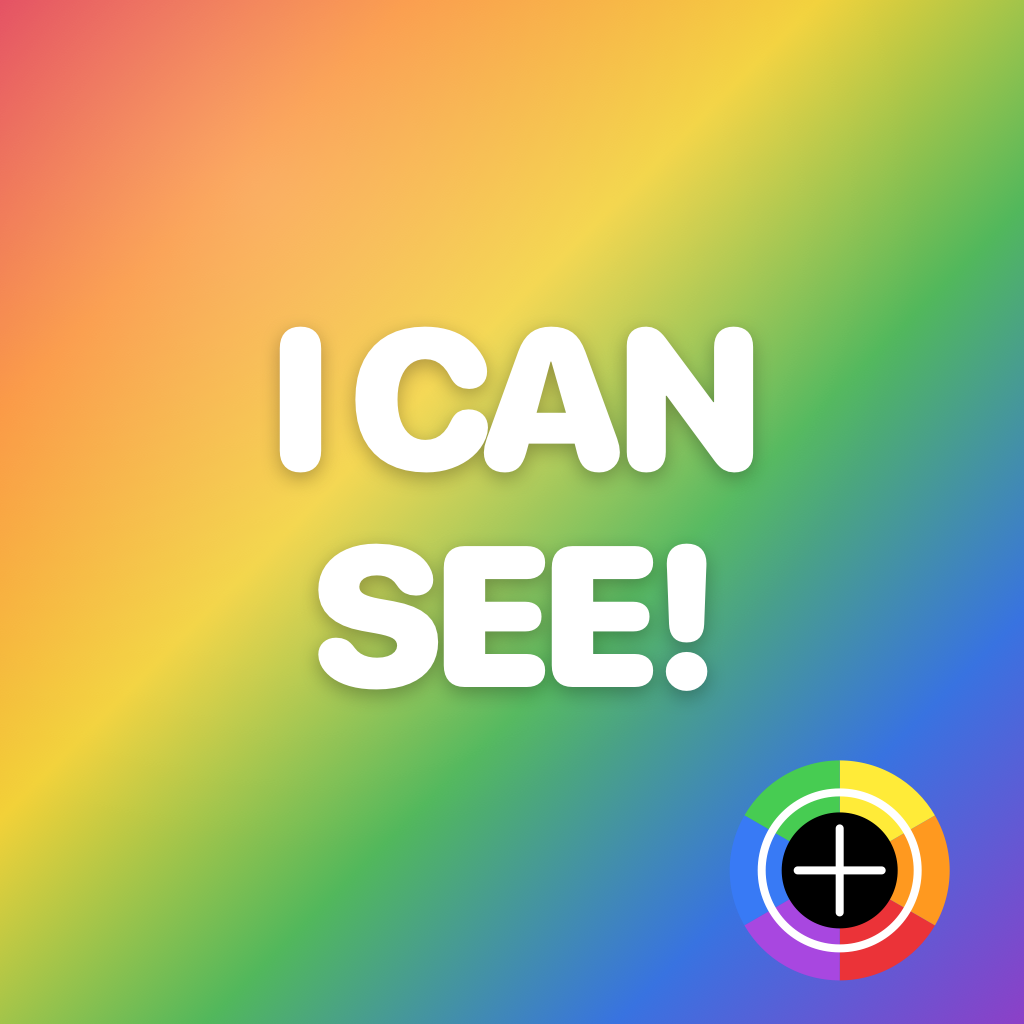
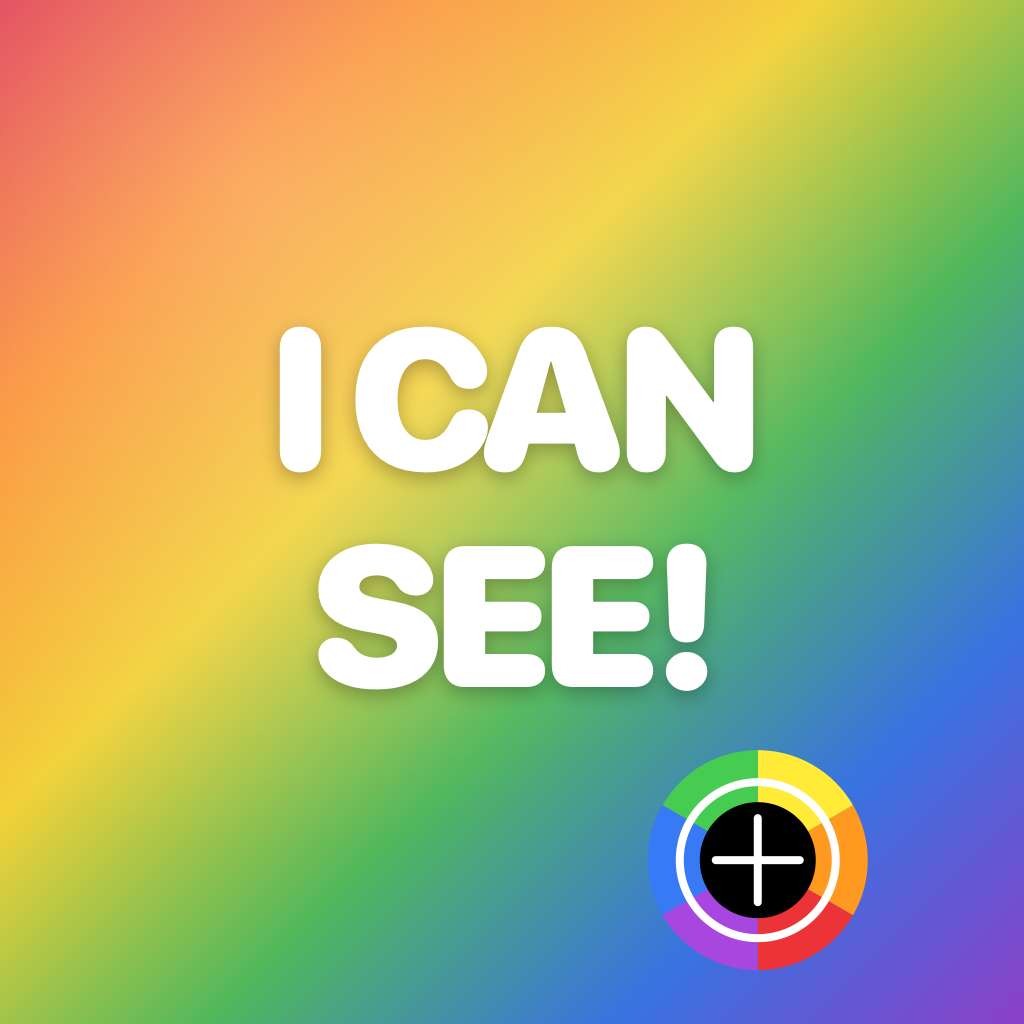
Show colour-wheel composition, fix blue→gray, keep screen on, photo picker
- NamedColor gains a `composition` field; matcher returns it in place of
  the hex code. The readout now reads "Red + Yellow" instead of #FF8000,
  which is what the target users actually want to know.
- ColorMatcher applies a chroma penalty so a chromatic sample can't lose
  to a near-neutral candidate. Fixes a washed-out blue being reported
  as Gray under warm lighting.
- RootView toggles isIdleTimerDisabled while the camera is authorized
  so the screen doesn't lock during a reading.
- Replace the Menu-driven photo loader with a confirmationDialog; the
  Menu path was silently failing to present the PhotosPicker on dismiss.
- Nudge the color-wheel motif in the app icon further left (cx 0.82→0.74).

Changed region(s): [[0.625, 0.7188, 0.9375, 0.9688]]

diff --git a/ICanSee/Models/NamedColor.swift b/ICanSee/Models/NamedColor.swift
@@ -6,21 +6,22 @@ import SwiftUI
 /// color a non-colorblind speaker would name unprompted. Adding obscure
 /// names (papayawhip, gainsboro) makes nearest-neighbor matching *worse*
 /// for the people this app is for — they see "ochre" and learn nothing.
+///
+/// Each entry also carries a `composition` — the primaries/neutrals you'd
+/// mix on a colour wheel to get that hue. This is what the app shows in
+/// place of the hex code: "Red + Yellow" reads as a useful answer to
+/// "what colour is this?" for someone who can't tell on their own.
 struct NamedColor: Hashable {
     let name: String
     let red: Double    // 0...1, sRGB
     let green: Double
     let blue: Double
+    let composition: String
+}
 
+extension NamedColor {
     var color: Color {
         Color(.sRGB, red: red, green: green, blue: blue, opacity: 1)
-    }
-
-    var hex: String {
-        String(format: "#%02X%02X%02X",
-               Int((red * 255).rounded()),
-               Int((green * 255).rounded()),
-               Int((blue * 255).rounded()))
     }
 }
 
@@ -29,48 +30,48 @@ extension NamedColor {
     /// the two confusion axes that affect ~99% of colorblind users.
     static let palette: [NamedColor] = [
         // Neutrals
-        .init(name: "Black",       red: 0.00, green: 0.00, blue: 0.00),
-        .init(name: "Dark Gray",   red: 0.25, green: 0.25, blue: 0.25),
-        .init(name: "Gray",        red: 0.50, green: 0.50, blue: 0.50),
-        .init(name: "Light Gray",  red: 0.75, green: 0.75, blue: 0.75),
-        .init(name: "White",       red: 1.00, green: 1.00, blue: 1.00),
+        .init(name: "Black",        red: 0.00, green: 0.00, blue: 0.00, composition: "Black"),
+        .init(name: "Dark Gray",    red: 0.25, green: 0.25, blue: 0.25, composition: "Black + White"),
+        .init(name: "Gray",         red: 0.50, green: 0.50, blue: 0.50, composition: "Black + White"),
+        .init(name: "Light Gray",   red: 0.75, green: 0.75, blue: 0.75, composition: "White + a little Black"),
+        .init(name: "White",        red: 1.00, green: 1.00, blue: 1.00, composition: "White"),
 
         // Reds / pinks
-        .init(name: "Maroon",      red: 0.50, green: 0.00, blue: 0.00),
-        .init(name: "Red",         red: 0.86, green: 0.08, blue: 0.10),
-        .init(name: "Crimson",     red: 0.86, green: 0.08, blue: 0.24),
-        .init(name: "Salmon",      red: 0.98, green: 0.50, blue: 0.45),
-        .init(name: "Pink",        red: 1.00, green: 0.71, blue: 0.76),
-        .init(name: "Hot Pink",    red: 1.00, green: 0.41, blue: 0.71),
+        .init(name: "Maroon",       red: 0.50, green: 0.00, blue: 0.00, composition: "Red + Black"),
+        .init(name: "Red",          red: 0.86, green: 0.08, blue: 0.10, composition: "Red"),
+        .init(name: "Crimson",      red: 0.86, green: 0.08, blue: 0.24, composition: "Red + a touch of Purple"),
+        .init(name: "Salmon",       red: 0.98, green: 0.50, blue: 0.45, composition: "Red + Orange + White"),
+        .init(name: "Pink",         red: 1.00, green: 0.71, blue: 0.76, composition: "Red + White"),
+        .init(name: "Hot Pink",     red: 1.00, green: 0.41, blue: 0.71, composition: "Red + Pink"),
 
         // Oranges / browns
-        .init(name: "Orange",      red: 1.00, green: 0.55, blue: 0.00),
-        .init(name: "Peach",       red: 1.00, green: 0.80, blue: 0.65),
-        .init(name: "Brown",       red: 0.55, green: 0.27, blue: 0.07),
-        .init(name: "Tan",         red: 0.82, green: 0.71, blue: 0.55),
+        .init(name: "Orange",       red: 1.00, green: 0.55, blue: 0.00, composition: "Red + Yellow"),
+        .init(name: "Peach",        red: 1.00, green: 0.80, blue: 0.65, composition: "Orange + White"),
+        .init(name: "Brown",        red: 0.55, green: 0.27, blue: 0.07, composition: "Red + Yellow + Black"),
+        .init(name: "Tan",          red: 0.82, green: 0.71, blue: 0.55, composition: "Brown + White"),
 
         // Yellows
-        .init(name: "Yellow",      red: 1.00, green: 0.92, blue: 0.00),
-        .init(name: "Gold",        red: 1.00, green: 0.84, blue: 0.00),
-        .init(name: "Olive",       red: 0.50, green: 0.50, blue: 0.00),
+        .init(name: "Yellow",       red: 1.00, green: 0.92, blue: 0.00, composition: "Yellow"),
+        .init(name: "Gold",         red: 1.00, green: 0.84, blue: 0.00, composition: "Yellow + a little Orange"),
+        .init(name: "Olive",        red: 0.50, green: 0.50, blue: 0.00, composition: "Yellow + Green + Black"),
 
         // Greens
-        .init(name: "Lime",        red: 0.50, green: 1.00, blue: 0.00),
-        .init(name: "Green",       red: 0.13, green: 0.70, blue: 0.20),
-        .init(name: "Forest Green",red: 0.13, green: 0.40, blue: 0.13),
-        .init(name: "Mint",        red: 0.60, green: 1.00, blue: 0.75),
-        .init(name: "Teal",        red: 0.00, green: 0.50, blue: 0.50),
+        .init(name: "Lime",         red: 0.50, green: 1.00, blue: 0.00, composition: "Yellow + Green"),
+        .init(name: "Green",        red: 0.13, green: 0.70, blue: 0.20, composition: "Yellow + Blue"),
+        .init(name: "Forest Green", red: 0.13, green: 0.40, blue: 0.13, composition: "Green + Black"),
+        .init(name: "Mint",         red: 0.60, green: 1.00, blue: 0.75, composition: "Green + White"),
+        .init(name: "Teal",         red: 0.00, green: 0.50, blue: 0.50, composition: "Green + Blue"),
 
         // Blues
-        .init(name: "Cyan",        red: 0.00, green: 0.85, blue: 1.00),
-        .init(name: "Sky Blue",    red: 0.53, green: 0.81, blue: 0.92),
-        .init(name: "Blue",        red: 0.10, green: 0.30, blue: 0.90),
-        .init(name: "Navy",        red: 0.00, green: 0.00, blue: 0.45),
+        .init(name: "Cyan",         red: 0.00, green: 0.85, blue: 1.00, composition: "Blue + Green + White"),
+        .init(name: "Sky Blue",     red: 0.53, green: 0.81, blue: 0.92, composition: "Blue + White"),
+        .init(name: "Blue",         red: 0.10, green: 0.30, blue: 0.90, composition: "Blue"),
+        .init(name: "Navy",         red: 0.00, green: 0.00, blue: 0.45, composition: "Blue + Black"),
 
         // Purples
-        .init(name: "Purple",      red: 0.50, green: 0.00, blue: 0.50),
-        .init(name: "Violet",      red: 0.55, green: 0.20, blue: 0.85),
-        .init(name: "Lavender",    red: 0.80, green: 0.75, blue: 0.95),
-        .init(name: "Magenta",     red: 0.90, green: 0.10, blue: 0.85)
+        .init(name: "Purple",       red: 0.50, green: 0.00, blue: 0.50, composition: "Red + Blue"),
+        .init(name: "Violet",       red: 0.55, green: 0.20, blue: 0.85, composition: "Blue + a little Red"),
+        .init(name: "Lavender",     red: 0.80, green: 0.75, blue: 0.95, composition: "Purple + White"),
+        .init(name: "Magenta",      red: 0.90, green: 0.10, blue: 0.85, composition: "Red + Purple")
     ]
 }

diff --git a/ICanSee/Models/ColorMatcher.swift b/ICanSee/Models/ColorMatcher.swift
@@ -2,27 +2,38 @@ import Foundation
 import simd
 
 /// Maps an sRGB sample to the nearest entry in `NamedColor.palette` using
-/// CIE Lab distance. Lab is roughly perceptually uniform — Euclidean distance
-/// in RGB would call dark navy "black" and pale yellow "white" because RGB
-/// distance is dominated by lightness, not hue.
+/// CIE Lab distance with a chroma penalty.
+///
+/// Plain Euclidean Lab distance (CIEDE76) gets the broad strokes right
+/// but has one failure mode that bites users: a mildly chromatic sample
+/// (say, a faded blue under warm lighting) can sit closer to neutral
+/// "Gray" than to any chromatic candidate, so the answer becomes "Gray"
+/// even though the user is clearly pointing at something blue. We add a
+/// **chroma penalty**: if the sample has appreciable chroma, candidates
+/// whose own chroma is much lower take a distance penalty proportional
+/// to the gap. Pure grays get pushed out of the running for chromatic
+/// samples without affecting genuinely grey samples.
 enum ColorMatcher {
-    /// Result of a single match.
     struct Match {
         let name: String
-        let hex: String
-        let confidence: Double  // 0...1, 1 = exact, 0 = far across the palette
+        /// e.g. "Red + Yellow" — what primaries/neutrals mix to make this.
+        let composition: String
+        let confidence: Double  // 0...1, 1 = exact, 0 = on a boundary
     }
 
     /// `red`, `green`, `blue` are sRGB in 0...1.
     static func match(red: Double, green: Double, blue: Double) -> Match {
         let sampleLab = labFromSRGB(r: red, g: green, b: blue)
+        let sampleChroma = sqrt(sampleLab.y * sampleLab.y + sampleLab.z * sampleLab.z)
+
         var bestIndex = 0
         var bestDistance = Double.infinity
         var secondDistance = Double.infinity
 
         for (i, candidate) in NamedColor.palette.enumerated() {
             let candidateLab = labFromSRGB(r: candidate.red, g: candidate.green, b: candidate.blue)
-            let d = simd_distance(sampleLab, candidateLab)
+            let candidateChroma = sqrt(candidateLab.y * candidateLab.y + candidateLab.z * candidateLab.z)
+            let d = simd_distance(sampleLab, candidateLab) + chromaPenalty(sample: sampleChroma, candidate: candidateChroma)
             if d < bestDistance {
                 secondDistance = bestDistance
                 bestDistance = d
@@ -33,16 +44,21 @@ enum ColorMatcher {
         }
 
         let best = NamedColor.palette[bestIndex]
-        // Confidence = how much closer the winner is than the runner-up.
-        // Two near-equidistant matches → low confidence (the sample is on a
-        // boundary, e.g. red/orange). Lone winner → high confidence.
         let margin = max(0, secondDistance - bestDistance)
         let confidence = min(1.0, margin / 25.0)
-        let hex = String(format: "#%02X%02X%02X",
-                         Int((red * 255).rounded()),
-                         Int((green * 255).rounded()),
-                         Int((blue * 255).rounded()))
-        return Match(name: best.name, hex: hex, confidence: confidence)
+        return Match(name: best.name, composition: best.composition, confidence: confidence)
+    }
+
+    /// Penalty added to a candidate when the sample has more chroma than
+    /// the candidate does — i.e. a chromatic sample paired with a gray
+    /// candidate. The 0.6 coefficient was chosen so a sample chroma of
+    /// ~10 (a fairly washed-out blue) makes Gray (chroma 0) lose by a
+    /// margin comparable to the chromatic-blue alternatives, without
+    /// being so harsh that a true near-gray gets misnamed.
+    private static func chromaPenalty(sample: Double, candidate: Double) -> Double {
+        let gap = sample - candidate
+        guard gap > 0 else { return 0 }
+        return gap * 0.6
     }
 
     // MARK: - sRGB → Lab
@@ -52,12 +68,10 @@ enum ColorMatcher {
         let lg = linearize(g)
         let lb = linearize(b)
 
-        // sRGB → XYZ (D65), per IEC 61966-2-1.
         let x = lr * 0.4124564 + lg * 0.3575761 + lb * 0.1804375
         let y = lr * 0.2126729 + lg * 0.7151522 + lb * 0.0721750
         let z = lr * 0.0193339 + lg * 0.1191920 + lb * 0.9503041
 
-        // D65 reference white.
         let fx = labF(x / 0.95047)
         let fy = labF(y / 1.00000)
         let fz = labF(z / 1.08883)

diff --git a/ICanSee/Views/RootView.swift b/ICanSee/Views/RootView.swift
@@ -11,6 +11,7 @@ struct RootView: View {
     @State private var photoPickerItem: PhotosPickerItem?
     @State private var showFileImporter = false
     @State private var showPhotosPicker = false
+    @State private var showLoadOptions = false
     @State private var inspectorImage: InspectorImage?
 
     var body: some View {
@@ -33,7 +34,26 @@ struct RootView: View {
             camera.requestAccessAndStart()
             if !hasSeenFirstRunGuide { showGuide = true }
         }
-        .onDisappear { camera.stop() }
+        .onChange(of: camera.authState) { _, state in
+            // Keep the screen awake while the camera is live — locking
+            // mid-reading is the most common interruption for the kind of
+            // tasks this app gets used for (matching paint, picking
+            // produce, sorting clothes).
+            UIApplication.shared.isIdleTimerDisabled = (state == .authorized)
+        }
+        .onDisappear {
+            camera.stop()
+            UIApplication.shared.isIdleTimerDisabled = false
+        }
+        .confirmationDialog("Load a photo", isPresented: $showLoadOptions, titleVisibility: .visible) {
+            // confirmationDialog handles "set state → present sheet" more
+            // reliably than `Menu { Button {...} }`, which on some iOS
+            // builds dismisses before the picker has bound to the new
+            // state and ends up doing nothing.
+            Button("Choose from Photos") { showPhotosPicker = true }
+            Button("Choose from Files") { showFileImporter = true }
+            Button("Cancel", role: .cancel) {}
+        }
         .sheet(isPresented: $showGuide, onDismiss: { hasSeenFirstRunGuide = true }) {
             FirstRunGuideView()
         }
@@ -129,17 +149,8 @@ struct RootView: View {
     }
 
     private var loadMenu: some View {
-        Menu {
-            Button {
-                showPhotosPicker = true
-            } label: {
-                Label("Choose from Photos", systemImage: "photo.on.rectangle")
-            }
-            Button {
-                showFileImporter = true
-            } label: {
-                Label("Choose from Files", systemImage: "folder")
-            }
+        Button {
+            showLoadOptions = true
         } label: {
             iconButtonLabel(systemName: "photo.on.rectangle.angled")
         }

diff --git a/ICanSeeTests/ColorMatcherTests.swift b/ICanSeeTests/ColorMatcherTests.swift
@@ -22,9 +22,19 @@ final class ColorMatcherTests: XCTestCase {
         XCTAssertEqual(ColorMatcher.match(red: 1, green: 1, blue: 1).name, "White")
     }
 
-    func testHexFormatting() {
+    func testCompositionForOrange() {
         let m = ColorMatcher.match(red: 1, green: 0.5, blue: 0)
-        XCTAssertEqual(m.hex, "#FF8000")
+        XCTAssertEqual(m.name, "Orange")
+        XCTAssertEqual(m.composition, "Red + Yellow")
+    }
+
+    func testChromaticBlueIsNotCalledGray() {
+        // Washed-out blue that previously matched "Gray" because Lab
+        // distance favored neutrals. Chroma penalty should keep us blue.
+        let m = ColorMatcher.match(red: 0.30, green: 0.40, blue: 0.60)
+        XCTAssertFalse(m.name.contains("Gray"))
+        XCTAssertFalse(m.name == "Black")
+        XCTAssertFalse(m.name == "White")
     }
 
     func testRedGreenDisambiguation() {

diff --git a/ICanSee/Views/ColorReadoutView.swift b/ICanSee/Views/ColorReadoutView.swift
@@ -20,9 +20,11 @@ struct ColorReadoutView: View {
 
                 HStack(spacing: 8) {
                     if let match {
-                        Text(match.hex)
-                            .font(.system(.footnote, design: .monospaced))
+                        Text(match.composition)
+                            .font(.footnote)
                             .foregroundStyle(.white.opacity(0.8))
+                            .lineLimit(2)
+                            .minimumScaleFactor(0.8)
                     } else {
                         Text("Aim the crosshair at something")
                             .font(.footnote)

diff --git a/scripts/generate-app-icon.swift b/scripts/generate-app-icon.swift
@@ -72,8 +72,8 @@ ctx.drawRadialGradient(highlight,
 //    puts the motif near the *bottom* of the icon — matching the user's request.
 do {
     ctx.saveGState()
-    let cx = side * 0.82
-    let cy = side * 0.15
+    let cx = side * 0.74
+    let cy = side * 0.16
     ctx.translateBy(x: cx, y: cy)
 
     // Color-wheel ring: 6 rainbow wedges.